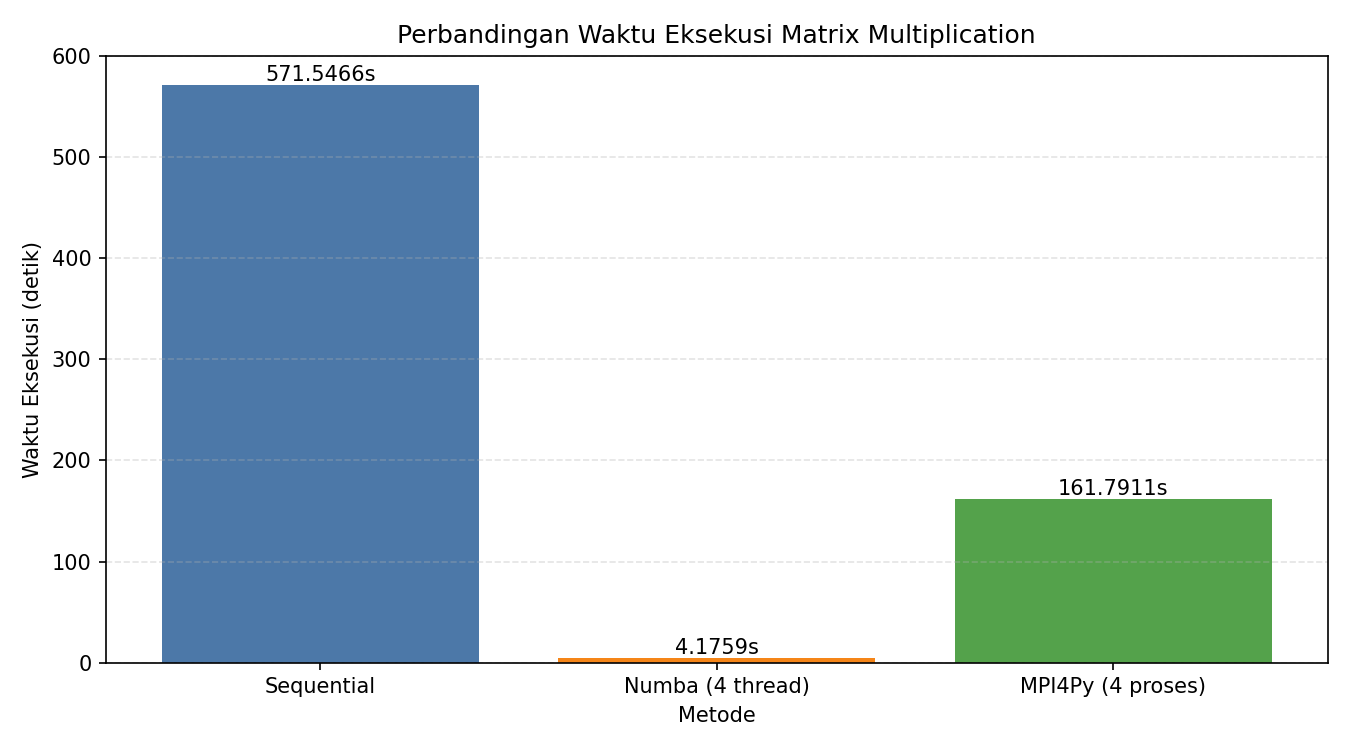
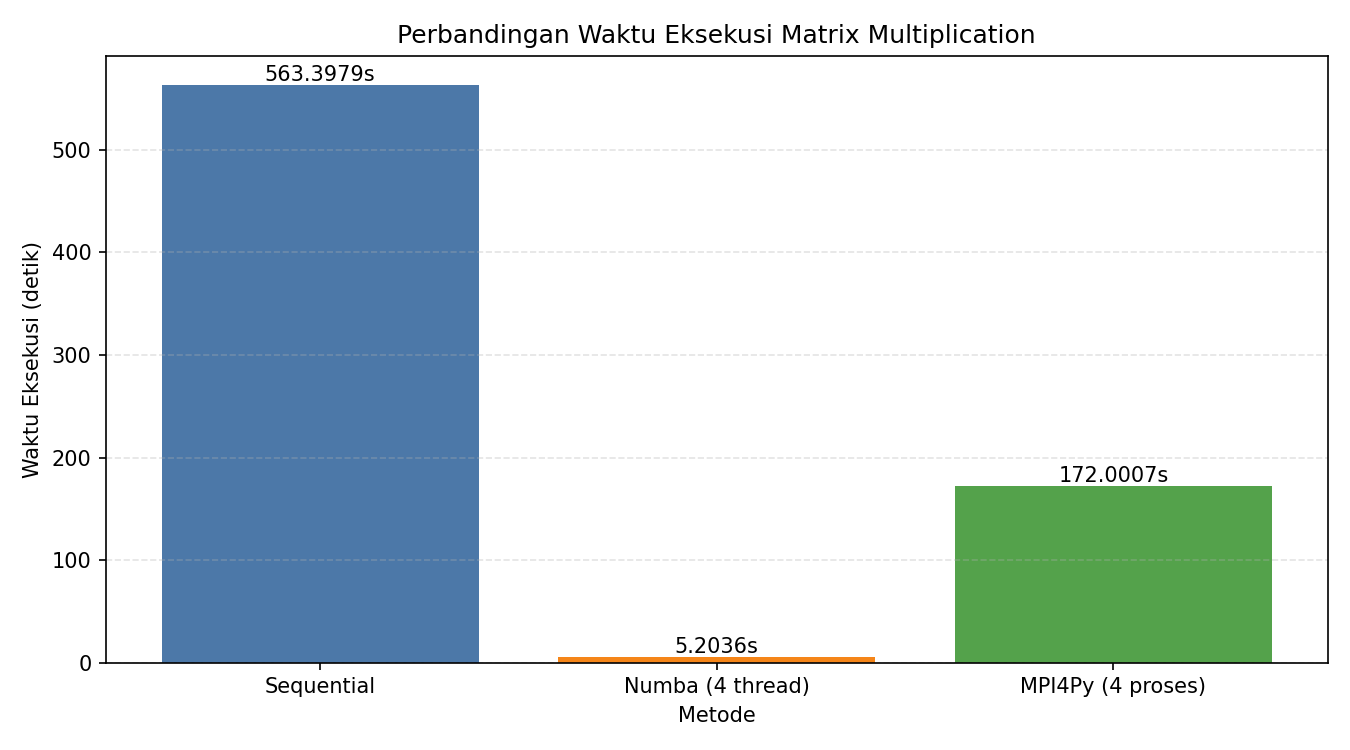
UPDATE

diff --git a/gabungan_perbandingan.py b/gabungan_perbandingan.py
@@ -61,6 +61,7 @@ def jalankan_sekuensial(matrix):
     return {
         "nama": "Sequential",
         "waktu": execution_time,
+        "resource": 1,
         "max_values": max_values,
         "max_columns": max_columns,
     }
@@ -92,6 +93,7 @@ def jalankan_numba(matrix, jumlah_thread):
     return {
         "nama": f"Numba ({get_num_threads()} thread)",
         "waktu": execution_time,
+        "resource": get_num_threads(),
         "max_values": max_values,
         "max_columns": max_columns,
     }
@@ -136,6 +138,7 @@ def jalankan_mpi(ukuran, jumlah_proses):
         return {
             "nama": f"MPI4Py ({jumlah_proses} proses)",
             "waktu": None,
+            "resource": jumlah_proses,
             "error": "mpiexec tidak ditemukan",
         }
 
@@ -149,6 +152,7 @@ def jalankan_mpi(ukuran, jumlah_proses):
         return {
             "nama": f"MPI4Py ({jumlah_proses} proses)",
             "waktu": None,
+            "resource": jumlah_proses,
             "error": "MPI gagal dijalankan",
         }
 
@@ -157,19 +161,45 @@ def jalankan_mpi(ukuran, jumlah_proses):
     return {
         "nama": f"MPI4Py ({jumlah_proses} proses)",
         "waktu": waktu,
+        "resource": jumlah_proses,
     }
+
+
+def hitung_speedup_efisiensi(hasil):
+    waktu_sekuensial = hasil[0]["waktu"]
+
+    for item in hasil:
+        if item["waktu"] is None or item["waktu"] == 0:
+            item["speedup"] = None
+            item["efisiensi"] = None
+            continue
+
+        item["speedup"] = waktu_sekuensial / item["waktu"]
+        item["efisiensi"] = item["speedup"] / item["resource"]
 
 
 def tampilkan_ringkasan(hasil):
     print("\n" + "=" * 55)
-    print("RINGKASAN WAKTU EKSEKUSI")
+    print("RINGKASAN WAKTU, SPEEDUP, DAN EFISIENSI")
     print("=" * 55)
+    print(
+        f"{'Metode':<24} "
+        f"{'Waktu (s)':>12} "
+        f"{'Speedup':>10} "
+        f"{'Efisiensi':>12}"
+    )
+    print("-" * 62)
 
     for item in hasil:
         if item["waktu"] is None:
-            print(f"{item['nama']:<24}: gagal / tidak tersedia")
+            print(f"{item['nama']:<24} {'gagal':>12} {'-':>10} {'-':>12}")
         else:
-            print(f"{item['nama']:<24}: {item['waktu']:.6f} detik")
+            print(
+                f"{item['nama']:<24} "
+                f"{item['waktu']:>12.6f} "
+                f"{item['speedup']:>10.4f} "
+                f"{item['efisiensi'] * 100:>11.2f}%"
+            )
 
 
 def buat_grafik(hasil):
@@ -217,6 +247,76 @@ def buat_grafik(hasil):
     plt.show()
 
 
+def buat_grafik_speedup_efisiensi(hasil):
+    data_valid = [
+        item
+        for item in hasil
+        if item["waktu"] is not None
+        and item["speedup"] is not None
+        and item["efisiensi"] is not None
+    ]
+
+    if not data_valid:
+        print("\nGrafik speedup dan efisiensi tidak dibuat karena data tidak valid.")
+        return
+
+    try:
+        import matplotlib.pyplot as plt
+    except ImportError:
+        print("\nGrafik speedup dan efisiensi teks:")
+        for item in data_valid:
+            print(
+                f"{item['nama']:<24} | "
+                f"speedup {item['speedup']:.4f}x | "
+                f"efisiensi {item['efisiensi'] * 100:.2f}%"
+            )
+        return
+
+    nama = [item["nama"] for item in data_valid]
+    speedup = [item["speedup"] for item in data_valid]
+    efisiensi = [item["efisiensi"] * 100 for item in data_valid]
+    warna = ["#4C78A8", "#F58518", "#54A24B"][: len(nama)]
+
+    fig, axes = plt.subplots(1, 2, figsize=(12, 5))
+
+    bars_speedup = axes[0].bar(nama, speedup, color=warna)
+    axes[0].set_title("Speedup")
+    axes[0].set_xlabel("Metode")
+    axes[0].set_ylabel("Speedup (x)")
+    axes[0].grid(axis="y", linestyle="--", alpha=0.35)
+
+    for bar, value in zip(bars_speedup, speedup):
+        axes[0].text(
+            bar.get_x() + bar.get_width() / 2,
+            bar.get_height(),
+            f"{value:.2f}x",
+            ha="center",
+            va="bottom",
+        )
+
+    bars_efisiensi = axes[1].bar(nama, efisiensi, color=warna)
+    axes[1].set_title("Efisiensi")
+    axes[1].set_xlabel("Metode")
+    axes[1].set_ylabel("Efisiensi (%)")
+    axes[1].grid(axis="y", linestyle="--", alpha=0.35)
+
+    for bar, value in zip(bars_efisiensi, efisiensi):
+        axes[1].text(
+            bar.get_x() + bar.get_width() / 2,
+            bar.get_height(),
+            f"{value:.2f}%",
+            ha="center",
+            va="bottom",
+        )
+
+    fig.tight_layout()
+
+    output = Path(__file__).with_name("grafik_speedup_efisiensi.png")
+    plt.savefig(output, dpi=150)
+    print(f"Grafik speedup dan efisiensi disimpan ke: {output}")
+    plt.show()
+
+
 def main():
     print("=" * 55)
     print(" GABUNGAN EKSEKUSI: SEQUENTIAL, NUMBA, DAN MPI4PY")
@@ -235,8 +335,10 @@ def main():
     hasil.append(jalankan_numba(matrix, jumlah_thread))
     hasil.append(jalankan_mpi(ukuran, jumlah_proses))
 
+    hitung_speedup_efisiensi(hasil)
     tampilkan_ringkasan(hasil)
     buat_grafik(hasil)
+    buat_grafik_speedup_efisiensi(hasil)
 
 
 if __name__ == "__main__":